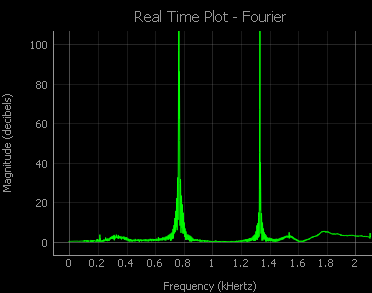
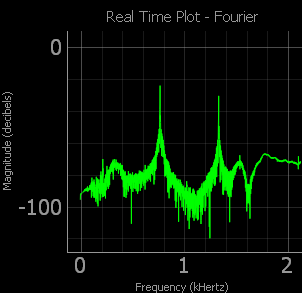
Modifications to plot in Decibels

diff --git a/DTMF.py b/DTMF.py
@@ -36,7 +36,6 @@ class DTMF(QtGui.QMainWindow, ui_DTMF. Ui_MainWindow):
         self.widget_fourier_plot.setLabel("bottom", "Frequency", "Hertz")
         self.widget_fourier_plot.setTitle("Real Time Plot - Fourier")
         self.widget_fourier_plot.setMouseEnabled (y = False)
-        self.widget_fourier_plot.setRange(xRange=(0,2000),yRange=(0,100))
         self.widget_fourier_plot.showGrid(True, True, 0.5)
 
         #DTMF Buttons
@@ -246,10 +245,15 @@ class DTMF(QtGui.QMainWindow, ui_DTMF. Ui_MainWindow):
         self.widget_fourier_plot.setMouseEnabled (y = False)
         self.widget_fourier_plot.setMouseEnabled(x = True)
         self.widget_fourier_plot.showGrid(True, True, 0.5)
-        self.widget_fourier_plot.setRange(xRange=(0,2000),yRange=(0,100))
+        self.widget_fourier_plot.setRange(xRange=(0,2000),yRange=(-120,2))
         audio_fft = self.FFT(data)
-        self.widget_fourier_plot.plot(abs(audio_fft), pen=self.pen, clear = True)
-        #self.getNotoriousPeaks(audio_fft)
+        N = len(data)
+        win = np.hamming(N)                                                                             
+        mag = np.abs(audio_fft) 
+        ref = np.sum(win) / 2                           
+        s_dbfs = 20 * np.log10(mag / ref)
+        freq = np.arange((N / 2)) / (float(N) / self.fs)
+        self.widget_fourier_plot.plot(freq, s_dbfs, pen=self.pen, clear = True)
         self.getPeaks(audio_fft)          
             
     def getPeaks(self, data):
@@ -425,15 +429,22 @@ class DTMF(QtGui.QMainWindow, ui_DTMF. Ui_MainWindow):
                 if pcmMax>self.maxPCM:
                     self.maxPCM = pcmMax
                     self.widget_real_time_plot.setRange(yRange = [-pcmMax, pcmMax])
+                    self.widget_real_time_plot.setRange(yRange=(-20000, 20000))
 
                 if np.max(self.ear.fft)>self.maxFFT:
                     self.maxFFT=np.max(np.abs(self.ear.fft))
-                    self.widget_fourier_plot.plotItem.setRange(yRange=[0,self.maxFFT])
+                    #self.widget_fourier_plot.plotItem.setRange(yRange=[0,self.maxFFT])
                     self.widget_fourier_plot.plotItem.setRange(yRange=[0,1])
 
                 self.pbLevel.setValue(1000*pcmMax/self.maxPCM)
                 self.widget_real_time_plot.setMouseEnabled(x = True)
-                self.widget_fourier_plot.plot(self.ear.fftx, abs(self.ear.fft)/self.maxFFT,pen=self.pen,clear=True)
+                # N = len(self.ear.data)
+                # win = np.hamming(N)                                                                             
+                # mag = np.abs(self.ear.fft) 
+                # ref = np.sum(win) / 2                           
+                # s_dbfs = 20 * np.log10(mag / ref)
+                # freq = np.arange((N / 2 - 1)) / (float(N) / self.fs)
+                self.widget_fourier_plot.plot(self.ear.fftx, self.ear.fft/self.maxFFT,pen=self.pen,clear=True)
                 self.widget_real_time_plot.plot(self.ear.datax, self.ear.data, pen=self.pen, clear=True)
                 # audio_fft = self.FFT(self.ear.data)
                 # self.getPeaks(audio_fft)
